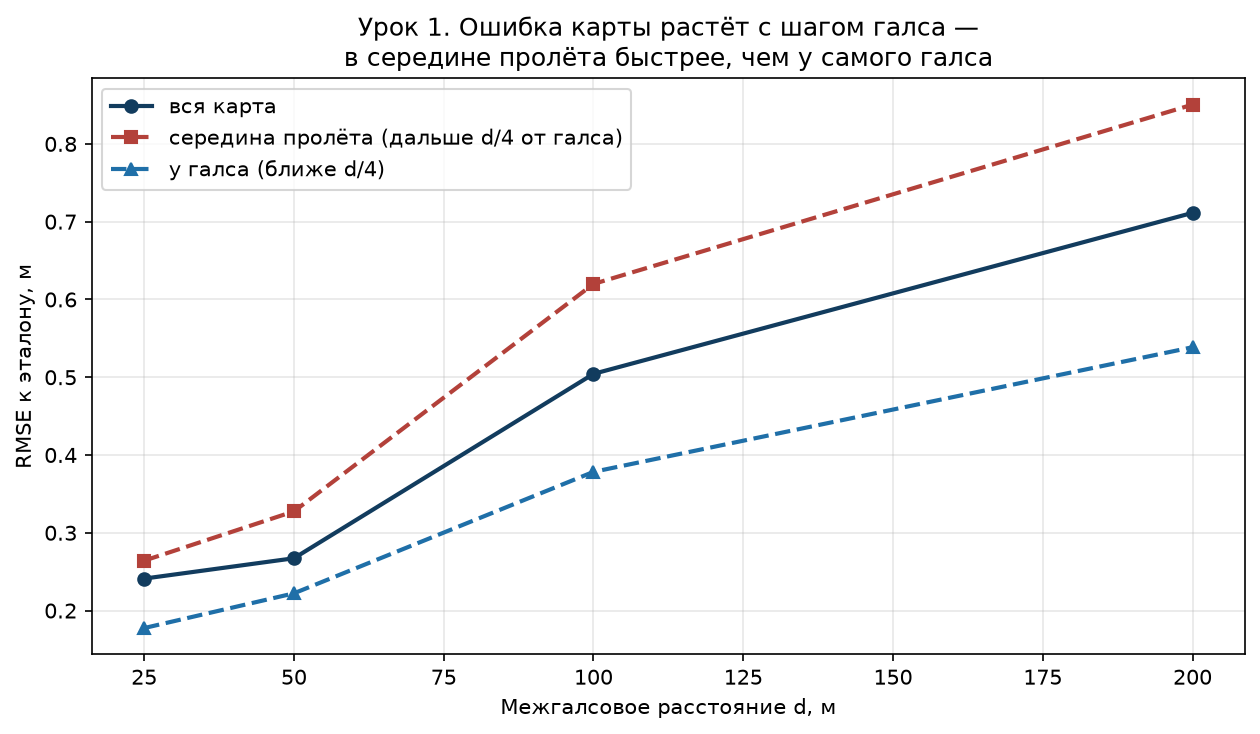
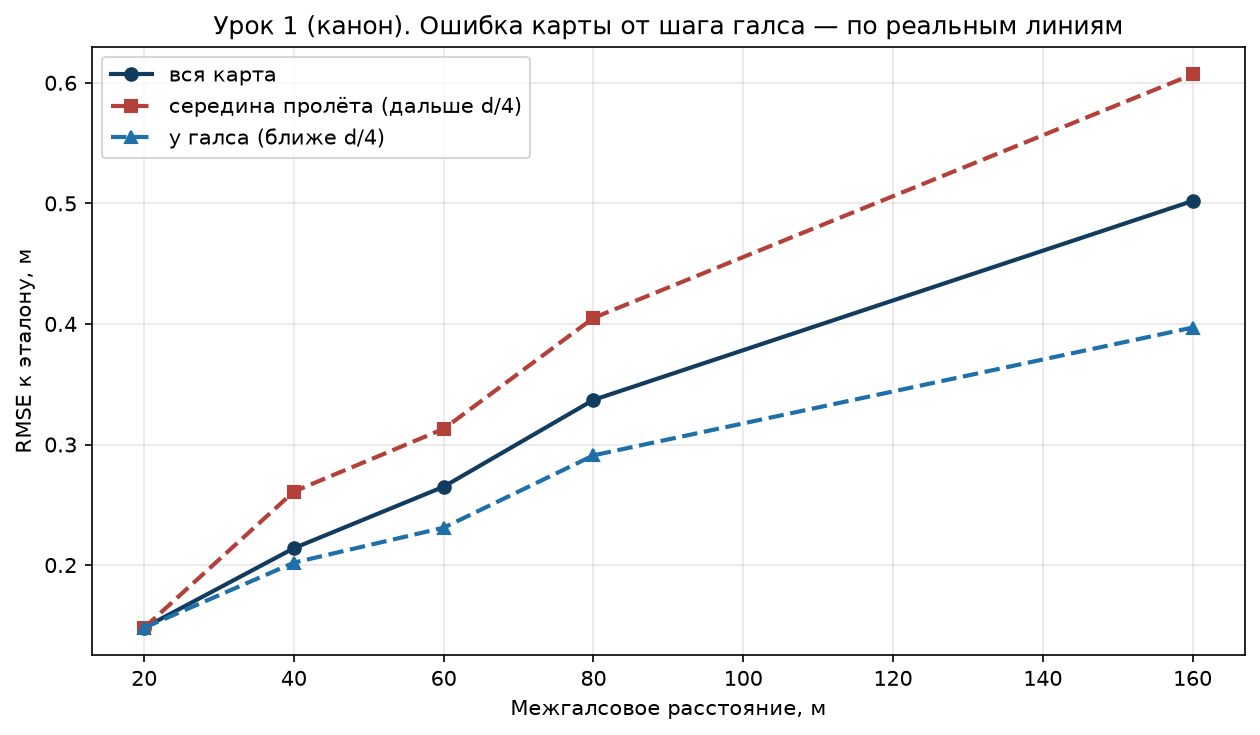
Учебный датасет уровня A с метками ходов/галсов + канонические числа уроков
- data/lesson-bathymetry-tracks.csv: 519 192 т., та же локальная СК, что
  у Zenodo-набора (сверка 20 000/20 000 кортежей x,y,depth); колонки
  patch_id/track_id/leg_id/seq_in_track; без нулевого хода и GPS-глюков;
  естественные дефекты сохранены для урока 2
- data/lesson-shore-synthetic.csv: синтетический берег (не реальный)
- каноническая серия пересчитана прореживанием по реальным линиям
  (полосная эмуляция не переживает округления 0,1 м — угол галса дрейфует);
  серия монотонна: RMSE 0,15-0,50 (шаг 20-160 м), MAD при 160 м уже вредит
- уроки 1-2 и фигуры обновлены каноническими числами; кейс 75 м оставлен
  как разбор ловушки эмуляции

diff --git a/project/lesson-drafts/urok-2-mad-i-bereg.md b/project/lesson-drafts/urok-2-mad-i-bereg.md
@@ -30,28 +30,26 @@
 
 ![MAD-фильтрация](figs/l2_fig1_mad.png)
 
-На галсах 50 м: удалено **737 точек из 57 637 (1,3%)**, RMSE карты к эталону улучшился с **0,32 до 0,27 м**, а главное — исчезли «бычьи глаза» (bullseyes): ложные ямы и бугры вокруг одиночных выбросов, которые TIN честно вписывает в поверхность.
+На выборке «каждая 6-я линия» (~60 м): удалено **752 точки из 57 895 (1,3%)**, RMSE карты к эталону улучшился с **0,35 до 0,26 м**, а главное — исчезли «бычьи глаза» (bullseyes): ложные ямы и бугры вокруг одиночных выбросов, которые TIN честно вписывает в поверхность.
 
 ## Часть Б. Полный конвейер на разных шагах галса (связка с Уроком 1)
 
-Те же «эталоны», но с полным конвейером **MAD → TIN → сглаживание** на каждом шаге галса:
+Те же «эталоны», но с полным конвейером **MAD → TIN → сглаживание** на каждом шаге. Канонические числа: прореживание по реальным галсовым линиям (`leg_id` из `data/lesson-bathymetry-tracks.csv`), полностью воспроизводимо из учебного файла (контрольные значения — `data/README-data.md`):
 
 ![Серия MAD по шагам галса](figs/l2_fig3_mad_series.png)
 
-| Шаг галса | Точек | Удалено MAD | RMSE без MAD | RMSE с MAD | Выигрыш |
+| Прореживание | Точек | Удалено MAD | RMSE без MAD | RMSE с MAD | Выигрыш |
 |---|---|---|---|---|---|
-| 12 м (все) | 461 900 | 6 994 (1,5%) | 0,24 м | **0,11 м** | −55% |
-| 25 м | 68 013 | 897 | 0,32 м | 0,24 м | −25% |
-| 50 м | 57 637 | 737 | 0,32 м | 0,27 м | −18% |
-| 75 м | 22 384 | 341 | 0,60 м | 0,58 м | −3% |
-| 100 м | 31 869 | 367 | 0,54 м | 0,50 м | −7% |
-| 200 м | 14 469 | 129 | 0,74 м | 0,71 м | −4% |
+| все линии (шаг 10 м) | 461 900 | 6 976 (1,5%) | 0,24 м | **0,11 м** | −56% |
+| каждая 2-я (~20 м) | 192 749 | 3 037 | 0,26 м | 0,13 м | −48% |
+| каждая 4-я (~40 м) | 92 559 | 1 552 | 0,30 м | 0,20 м | −32% |
+| каждая 6-я (~60 м) | 57 895 | 752 | 0,35 м | 0,26 м | −27% |
+| каждая 8-я (~80 м) | 46 962 | 640 | 0,38 м | 0,33 м | −14% |
+| каждая 16-я (~160 м) | 27 166 | 305 | 0,51 м | 0,52 м | **≈0: уже вредит** |
 
-![MAD при 75 м](figs/l2_fig4_mad75.png)
+**Ключевой вывод уроков 1+2:** фильтрация лечит шум, но не лечит редкие галсы. При полной плотности MAD срезает ошибку вдвое (0,24 → 0,11 м); с ростом шага выигрыш монотонно тает, а при ~160 м MAD начинает **чуть вредить** — при дефиците покрытия удалённая точка стоит дороже, чем шум, который она вносила. Плотность съёмки и чистка данных — разные рычаги качества; заменить один другим нельзя.
 
-**⚠ Ловушка эмуляции (кейс 75 м — разобрать со студентами).** RMSE при «75 м» вышел хуже, чем при «100 м» — это не физика, а артефакт метода прореживания: полосы с периодом 75 м попали в биение с реальным шагом галсов ~12 м и поймали только 22,4 тыс. точек — меньше, чем полосы 100 м (31,9 тыс.). Ошибка карты следует за фактическим числом и расположением точек, а не за номинальным «шагом». В Colab-практикуме прореживание делается по реальным галсам (выбор каждого k-го галса), а не полосами — тогда серия монотонна. Отличный экзаменационный вопрос: «почему эмуляция 75 м оказалась хуже 100 м?»
-
-**Ключевой вывод уроков 1+2:** фильтрация лечит шум, но не лечит редкие галсы. При плотной съёмке (12 м) ошибку делает шум — MAD срезает её вдвое; при редкой (200 м) ошибку делают «дыры» между галсами — MAD почти бессилен. Плотность съёмки и чистка данных — разные рычаги качества, и заменить один другим нельзя.
+**⚠ Ловушка эмуляции (исторический кейс «75 м» — разобрать со студентами).** В ранней версии урока прореживание делалось полосами фиксированного периода, и «75 м» дало RMSE хуже, чем «100 м» ([figs/l2_fig4_mad75.png](figs/l2_fig4_mad75.png)): полосы попали в биение с реальным шагом галсов и поймали меньше точек. Ошибка карты следует за фактическим покрытием, а не за номинальным «шагом» — поэтому канонический метод прореживает по реальным линиям (`leg_id`), и серия монотонна. Экзаменационный вопрос: «почему полосная эмуляция 75 м оказалась хуже 100 м?»
 
 ## Часть В. Берег (Z=0) как граничное условие
 

diff --git a/project/lesson-drafts/urok-1-shag-galsa.md b/project/lesson-drafts/urok-1-shag-galsa.md
@@ -29,30 +29,31 @@
 | Северо-восточный | 10 127 | 8,2 м | 76 м |
 | Старая съёмка (весь водоём) | 79 257 | — | ~300–600 м, зигзаг |
 
-## Эксперимент: прореживаем галсы
+## Эксперимент (канонический): прореживаем по реальным галсовым линиям
 
-Берём участок с шагом 12 м как **эталон** (сетка 10 м, вдоль-трековая чистка выбросов), затем эмулируем съёмку с шагом 25 / 50 / 100 / 200 м, оставляя только точки в полосах шириной 4 м, и строим TIN-интерполяцию (`scipy.interpolate.griddata`, linear).
+Данные: `data/lesson-bathymetry-tracks.csv`, `patch_id == 1` — 97 галсовых линий с фактическим шагом **10 м** (колонка `leg_id`). Эталон — все линии (сетка 10 м, вдоль-трековая чистка). Прореживание: каждая k-я линия → шаг ≈ 20/40/60/80/160 м; TIN (`scipy.interpolate.griddata`, linear). Все числа воспроизводятся из учебного файла (контрольные значения — `data/README-data.md`).
 
 ![Карты при разном шаге галса](figs/l1_fig1_spacing_maps.png)
 
-| Шаг галса | Точек | RMSE карты | RMSE у галса | RMSE в середине пролёта |
-|---|---|---|---|---|
-| 25 м | 67 359 | 0,24 м | 0,18 м | 0,26 м |
-| 50 м | 57 057 | 0,27 м | 0,22 м | 0,33 м |
-| 100 м | 31 590 | 0,50 м | 0,38 м | 0,62 м |
-| 200 м | 14 371 | 0,71 м | 0,54 м | 0,85 м |
+| Прореживание | Линий | Точек | RMSE карты | у галса | середина пролёта |
+|---|---|---|---|---|---|
+| каждая 2-я (~20 м) | 49 | 190 827 | 0,15 м | — | — (при 20 м зоны сливаются) |
+| каждая 4-я (~40 м) | 25 | 91 652 | 0,21 м | 0,20 м | 0,26 м |
+| каждая 6-я (~60 м) | 17 | 57 307 | 0,27 м | 0,23 м | 0,31 м |
+| каждая 8-я (~80 м) | 13 | 46 522 | 0,34 м | 0,29 м | 0,41 м |
+| каждая 16-я (~160 м) | 7 | 26 948 | 0,50 м | 0,40 м | 0,61 м |
 
 ![Кривая RMSE](figs/l1_fig2_rmse_curve.png)
 
 ## Что видно
 
-1. До ~50 м ошибка растёт медленно (формы рельефа крупнее пролёта), после — быстро: узкое затопленное русло на карте 100 м рвётся, на 200 м остаются только фасетки TIN.
+1. До ~40–60 м ошибка растёт медленно (формы рельефа крупнее пролёта), дальше — быстро: узкое затопленное русло на карте 80 м рвётся, на 160 м остаётся размытое пятно.
 2. Ошибка **в середине пролёта** всегда больше, чем у галса, и растёт быстрее — карта «знает» дно только там, где прошло судно.
-3. Шум хода задаёт **нижний предел** качества: даже при шаге 25 м RMSE не падает ниже ~0,2 м — это шум эхолота, а не интерполяции (см. Урок 2а про фильтрацию).
+3. Шум хода задаёт **нижний предел** качества: даже при шаге 20 м RMSE не падает ниже ~0,15 м без фильтрации — это шум эхолота, а не интерполяции (урок 2: MAD опускает предел до ~0,11 м).
 
 ## Практическое правило
 
-Шаг галса выбирают по масштабу форм рельефа и требуемой точности: для карты русловых форм шириной ~50 м нужен шаг ≤ 25 м; для общей морфометрии чаши достаточно 100 м. Экономия времени съёмки в 4 раза стоит роста ошибки в ~3 раза.
+Шаг галса выбирают по масштабу форм рельефа и требуемой точности: для карты русловых форм шириной ~50 м нужен шаг ≤ 20–40 м; для общей морфометрии чаши достаточно 80 м. Прореживание в 8 раз (экономия времени съёмки) стоит роста ошибки в ~2,3 раза (0,15 → 0,34 м).
 
 ## Контрольные вопросы
 

diff --git a/project/lesson-drafts/data/README-data.md b/project/lesson-drafts/data/README-data.md
@@ -1,0 +1,48 @@
+# Учебные данные уроков П11/А4 (уровень A, воспроизводимые)
+
+> Создано 2026-07-08. Прототип пересборки Zenodo-пакета (план, этап 0.3).
+
+## Файлы
+
+### `lesson-bathymetry-tracks.csv` — 519 192 промера, 21 МБ
+
+| Колонка | Тип | Описание |
+|---|---|---|
+| `point_id` | int | сквозной номер |
+| `patch_id` | int | участок съёмки (1–6, по убыванию числа точек; 1 = главный, 469 110 т.) |
+| `track_id` | int | ход (непрерывный отрезок записи), 1–54 |
+| `leg_id` | int | **галсовая линия внутри патча** (по возрастанию поперечной координаты); 0 = развороты и переходы между линиями |
+| `seq_in_track` | int | порядок записи внутри хода (хронология судна) |
+| `x_m`, `y_m` | float | локальная СК уровня A — **та же, что в опубликованном Zenodo-наборе** (совпадение проверено: 20 000/20 000 выборочных кортежей x,y,depth), округление 0,1 м |
+| `depth_m` | float | глубина, ≥ 0; для ГИС использовать `bottom_elevation_m = −depth_m` |
+
+**Что удалено против сырья:** «нулевой ход» (20 758 т. другого объекта в 37 км) и GPS-глюк (5 т.).
+**Что сохранено намеренно:** порядок записи, естественные дефекты — ~1% одиночных спайков и 7 210 нулей — это учебный материал для фильтрации (урок 2).
+**Чувствительность:** координаты идентичны уже опубликованному уровню A; добавлена только структура ходов/линий (без геопривязки). Реальный берег в набор не входит.
+
+### `lesson-shore-synthetic.csv` — 193 точки
+
+Синтетический контур (граница покрытия главного патча + буфер), `z_m = 0`, колонка `note = synthetic`.
+**Это НЕ реальная береговая линия** — учебная замена для урока 2В (берег как граничное условие) по политике фигур (план, п. 0.4).
+
+## Канонический эксперимент (воспроизводит уроки 1 и 2Б)
+
+1. Взять `patch_id == 1`, `depth_m > 0`; эталон: ячейки 10 м, среднее по точкам,
+   очищенным вдоль хода (|z − скользящая медиана(11) по `seq_in_track`| ≤ 0,75 м).
+2. Прореживание — **по линиям**: `leg_id` отсортированы по положению; каждая k-я линия
+   (k = 2/4/6/8/16 → шаг ≈ 20/40/60/80/160 м при фактическом шаге линий 10 м); leg 0 не брать.
+3. TIN (`scipy.interpolate.griddata`, linear) → RMSE к эталону; MAD-фильтр: 30 соседей,
+   порог 3·1,4826·MAD (мин. 0,3 м). Сглаживание (гаусс σ=1,5 яч.) — только для показа.
+
+Контрольные значения (должны воспроизводиться с точностью ±0,01 м):
+
+| Выборка | Точек | RMSE (TIN) | RMSE + MAD |
+|---|---|---|---|
+| все точки (шаг 10 м) | 461 900 | 0,24 | **0,11** (−6 976 т.) |
+| каждая 2-я линия (~20 м) | 192 749 | 0,26 | 0,13 |
+| каждая 4-я (~40 м) | 92 559 | 0,30 | 0,20 |
+| каждая 6-я (~60 м) | 57 895 | 0,35 | 0,26 |
+| каждая 8-я (~80 м) | 46 962 | 0,38 | 0,33 |
+| каждая 16-я (~160 м) | 27 166 | 0,51 | 0,52 — MAD уже не помогает |
+
+Скрипт-генератор: `scratchpad/build_dataset_v3.py` (сессия сборки; при интеграции перенести в `project/platform/tools/lesson_bathymetry/`).

diff --git a/project/lesson-drafts/plan-uluchsheniya-p11-a4.md b/project/lesson-drafts/plan-uluchsheniya-p11-a4.md
@@ -16,6 +16,7 @@
 - **0.1** Словарь данных → в репозиторий и в README Zenodo-пакета.
 - **0.2** Конвенция знака: зафиксировать `depth_m` (хранение) + `bottom_elevation_m` (производная, для ГИС); прогнать по всем страницам платформы поиск «высота/глубина» на согласованность.
 - **0.3** Пересборка Zenodo-пакета: столбец `track_id` (метки ходов), старая съёмка с датум-поправкой −0,85 м, контур берега (Z=0) в той же локальной СК, исключён нулевой ход и GPS-глюки; словарь данных в README.
+  ✅ **Прототип готов**: `project/lesson-drafts/data/lesson-bathymetry-tracks.csv` (та же локальная СК, что у Zenodo-набора — сверка 20 000/20 000 кортежей; + `patch_id`/`track_id`/`leg_id`/`seq_in_track`; мусор исключён) и `lesson-shore-synthetic.csv` (синтетический берег). Канонические числа уроков воспроизводимы из этого файла (`data/README-data.md`).
   ⚠ **Деанонимизация через форму берега:** реальный контур берега опознаваем по спутниковым снимкам независимо от системы координат — его включение в пакет (или показ рядом с детальными картами) раскрывает origin локальной СК и снимает защиту уровня A. До юридического подтверждения (тот же чек-лист, что для Zenodo): в пакет и публичные материалы — только обобщённый/фрагментарный контур либо синтетический берег для урока 2в.
 - **0.4 Политика учебных фигур:** карты детальнее уровня B (сетка < 100 м) публикуются только как сглаженные растровые изображения без реального контура берега в кадре, либо после юр. подтверждения статуса «обобщённый продукт». Прогнать существующие фигуры уроков через эту политику перед переносом на публичную платформу.
 

diff --git a/project/lesson-drafts/data-dictionary.md b/project/lesson-drafts/data-dictionary.md
@@ -25,6 +25,15 @@
 | `project/platform/datasets/bathymetry-training-80k.csv` (= `docs/files/…`) | 80 000 | те же | локальная | Учебный сабсет |
 | `docs/modules/a4/data/bathymetry-grid-100m.tif` + `.tfw` | 100 м/пикс | глубина, м | локальная | Сетка уровня B, перепроецированная в локальную СК уровня A |
 
+## Учебные данные уроков (`project/lesson-drafts/data/`)
+
+| Файл | Строк | Колонки | СК | Примечания |
+|---|---|---|---|---|
+| `lesson-bathymetry-tracks.csv` | 519 192 | `point_id, patch_id, track_id, leg_id, seq_in_track, x_m, y_m, depth_m` | локальная (= Zenodo-набор, сверено 20 000/20 000) | новая съёмка без нулевого хода и GPS-глюков; `leg_id` — галсовая линия (0 = развороты); порядок записи сохранён; естественные дефекты оставлены для урока 2 |
+| `lesson-shore-synthetic.csv` | 193 | `point_id, x_m, y_m, z_m, note` | локальная | **синтетический** контур (граница покрытия патча 1), не реальный берег |
+
+Подробности и контрольные значения воспроизводимости: `data/README-data.md`.
+
 ## Правила использования
 
 1. Уровень C не покидает внутренний контур (в git заблокирован явными паттернами `.gitignore`).
